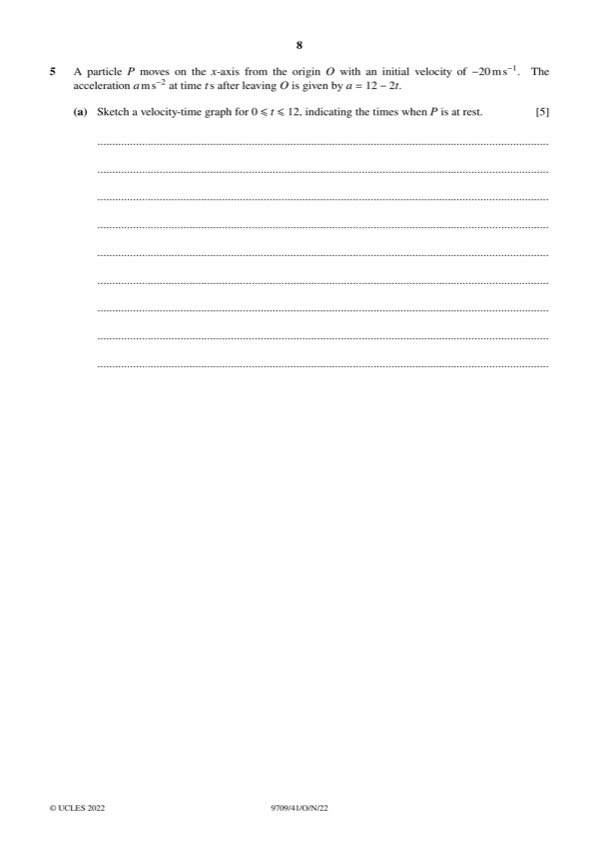
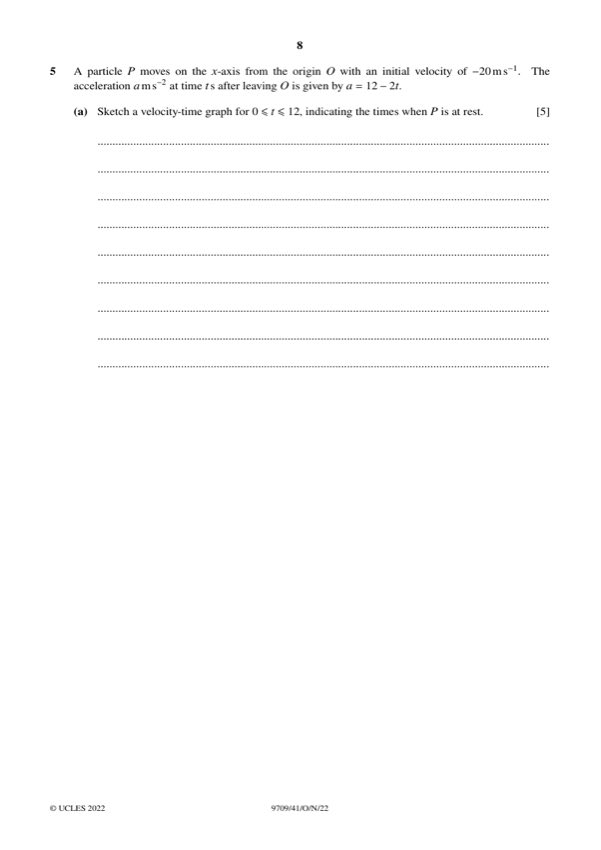
9709/41 Oct 2022: restore paper diagrams with question per part

diff --git a/docs/9709/2022/P4/Oct/Oct2022WorkedOut41.html b/docs/9709/2022/P4/Oct/Oct2022WorkedOut41.html
@@ -16,9 +16,12 @@ main.wrap{padding:22px 20px 48px;overflow-wrap:anywhere}
 .toc{margin:0 0 18px}.toc a{margin-right:10px;color:var(--brand);text-decoration:none;white-space:nowrap}
 .q{background:var(--card);border:1px solid var(--line);border-radius:12px;padding:18px 20px;margin:0 0 16px}
 .q h2{margin:0 0 10px;font-size:1.12rem}
-.stem{background:#f8fafc;border-left:4px solid var(--brand);padding:8px 12px;border-radius:0 8px 8px 0;margin:0 0 10px;white-space:pre-wrap}
+.diagram{margin:10px 0;text-align:center;border:1px solid var(--line);border-radius:8px;padding:8px;background:#fafbfd}
+.diagram img{max-width:100%;height:auto}
+.cap{font-size:.78rem;color:var(--muted);margin-top:4px}
 .part{margin:0 0 12px;padding:12px 16px;border:1px solid var(--line);border-radius:10px;background:#fbfcfe}
 .part-label{margin:0 0 6px;font-size:.95rem;color:var(--brand);font-weight:700}
+.stem{background:#f8fafc;border-left:4px solid var(--brand);padding:8px 12px;border-radius:0 8px 8px 0;margin:0 0 10px;white-space:pre-wrap}
 .eq{font-family:ui-monospace,Menlo,Consolas,monospace;font-size:.92rem;background:#f7f8fb;border:1px solid var(--line);border-radius:8px;padding:8px 12px;margin:6px 0;white-space:pre-wrap;overflow-wrap:anywhere}
 .final{color:var(--ok);font-weight:700;margin:8px 0 0}
 </style>
@@ -33,7 +36,9 @@ main.wrap{padding:22px 20px 48px;overflow-wrap:anywhere}
 
   <article class="q" id="q1">
     <h2>Question 1 [5]</h2>
+    <div class="diagram"><img src="worked41/page-02.jpg" alt="Paper page 2 for Q1" loading="lazy"><div class="cap">Original paper page 2</div></div>
     <section class="part">
+      <p class="part-label">Find P and Q [5]</p>
       <div class="stem">Coplanar forces of magnitudes P N, Q N, 16 N and 22 N act at a point and are in equilibrium. Find the values of P and Q.</div>
       <div class="eq">Horizontal: P cos 25° = 22 + 16 cos 55°
 Vertical:   Q + 16 sin 55° = P sin 25°</div>
@@ -45,7 +50,9 @@ Q = 34.40 sin 25° − 16 sin 55° = 1.43</div>
 
   <article class="q" id="q2">
     <h2>Question 2 [5]</h2>
+    <div class="diagram"><img src="worked41/page-03.jpg" alt="Paper page 3 for Q2" loading="lazy"><div class="cap">Original paper page 3</div></div>
     <section class="part">
+      <p class="part-label">Loss of kinetic energy [5]</p>
       <div class="stem">Spheres A (6 kg) and B (2 kg) move towards each other at 5 m s⁻¹ and 3 m s⁻¹. After the collision both move in the same direction and their speeds differ by 2 m s⁻¹. Find the loss of kinetic energy.</div>
       <div class="eq">Momentum: 6(5) + 2(−3) = 6vA + 2vB   so   6vA + 2vB = 24
 Speeds: vB = vA + 2   so   vA = 2.5, vB = 4.5</div>
@@ -57,6 +64,8 @@ KE after  = 18.75 + 20.25 = 39 J</div>
 
   <article class="q" id="q3">
     <h2>Question 3 [2 + 3 + 4]</h2>
+    <div class="diagram"><img src="worked41/page-04.jpg" alt="Paper page 4 for Q3" loading="lazy"><div class="cap">Original paper page 4</div></div>
+    <div class="diagram"><img src="worked41/page-05.jpg" alt="Paper page 5 for Q3" loading="lazy"><div class="cap">Original paper page 5</div></div>
     <section class="part">
       <p class="part-label">(a) [2] Car at constant speed 28 m s⁻¹ on level road; resistance 1400 N. Find the power in kW.</p>
       <div class="eq">Power = 1400 × 28 = 39 200 W</div>
@@ -78,6 +87,8 @@ Trailer: T − 300 − 720 = 600a   so   T = 1370 N</div>
 
   <article class="q" id="q4">
     <h2>Question 4 [7 + 2]</h2>
+    <div class="diagram"><img src="worked41/page-06.jpg" alt="Paper page 6 for Q4" loading="lazy"><div class="cap">Original paper page 6</div></div>
+    <div class="diagram"><img src="worked41/page-07.jpg" alt="Paper page 7 for Q4" loading="lazy"><div class="cap">Original paper page 7</div></div>
     <section class="part">
       <p class="part-label">(a) [7] Block of mass 8 kg on a rough plane inclined at 18°, pulled up by a string at 26° above a line of greatest slope, tension T. μ = 0.65. Acceleration is 0.2 m s⁻² up the plane. Find T.</p>
       <div class="eq">Parallel: T cos 26° − 8g sin 18° − F = 8(0.2)
@@ -95,6 +106,8 @@ F = 0.65R</div>
 
   <article class="q" id="q5">
     <h2>Question 5 [5 + 5]</h2>
+    <div class="diagram"><img src="worked41/page-08.jpg" alt="Paper page 8 for Q5" loading="lazy"><div class="cap">Original paper page 8</div></div>
+    <div class="diagram"><img src="worked41/page-09.jpg" alt="Paper page 9 for Q5" loading="lazy"><div class="cap">Original paper page 9</div></div>
     <section class="part">
       <p class="part-label">(a) [5] Particle P starts at O with velocity −20 m s⁻¹, acceleration a = 12 − 2t. Sketch a velocity-time graph for 0 ≤ t ≤ 12, indicating when P is at rest.</p>
       <div class="eq">v = 12t − t² − 20 = −(t − 2)(t − 10)</div>
@@ -111,6 +124,8 @@ x(0) = 0, x(2) = −18.67, x(10) = 66.67, x(12) = 48</div>
 
   <article class="q" id="q6">
     <h2>Question 6 [6 + 6]</h2>
+    <div class="diagram"><img src="worked41/page-10.jpg" alt="Paper page 10 for Q6" loading="lazy"><div class="cap">Original paper page 10 (Fig. 6.1)</div></div>
+    <div class="diagram"><img src="worked41/page-11.jpg" alt="Paper page 11 for Q6" loading="lazy"><div class="cap">Original paper page 11 (Fig. 6.2)</div></div>
     <section class="part">
       <p class="part-label">(a) [6] Particles A (4 kg) and B (3 kg) are joined by a light string over a smooth pulley at the top of a plane inclined at 30°. A hangs freely; B is on the plane. The plane is rough and the particles are in limiting equilibrium. Find the coefficient of friction between B and the plane.</p>
       <div class="eq">A: T = 4g = 40 N
